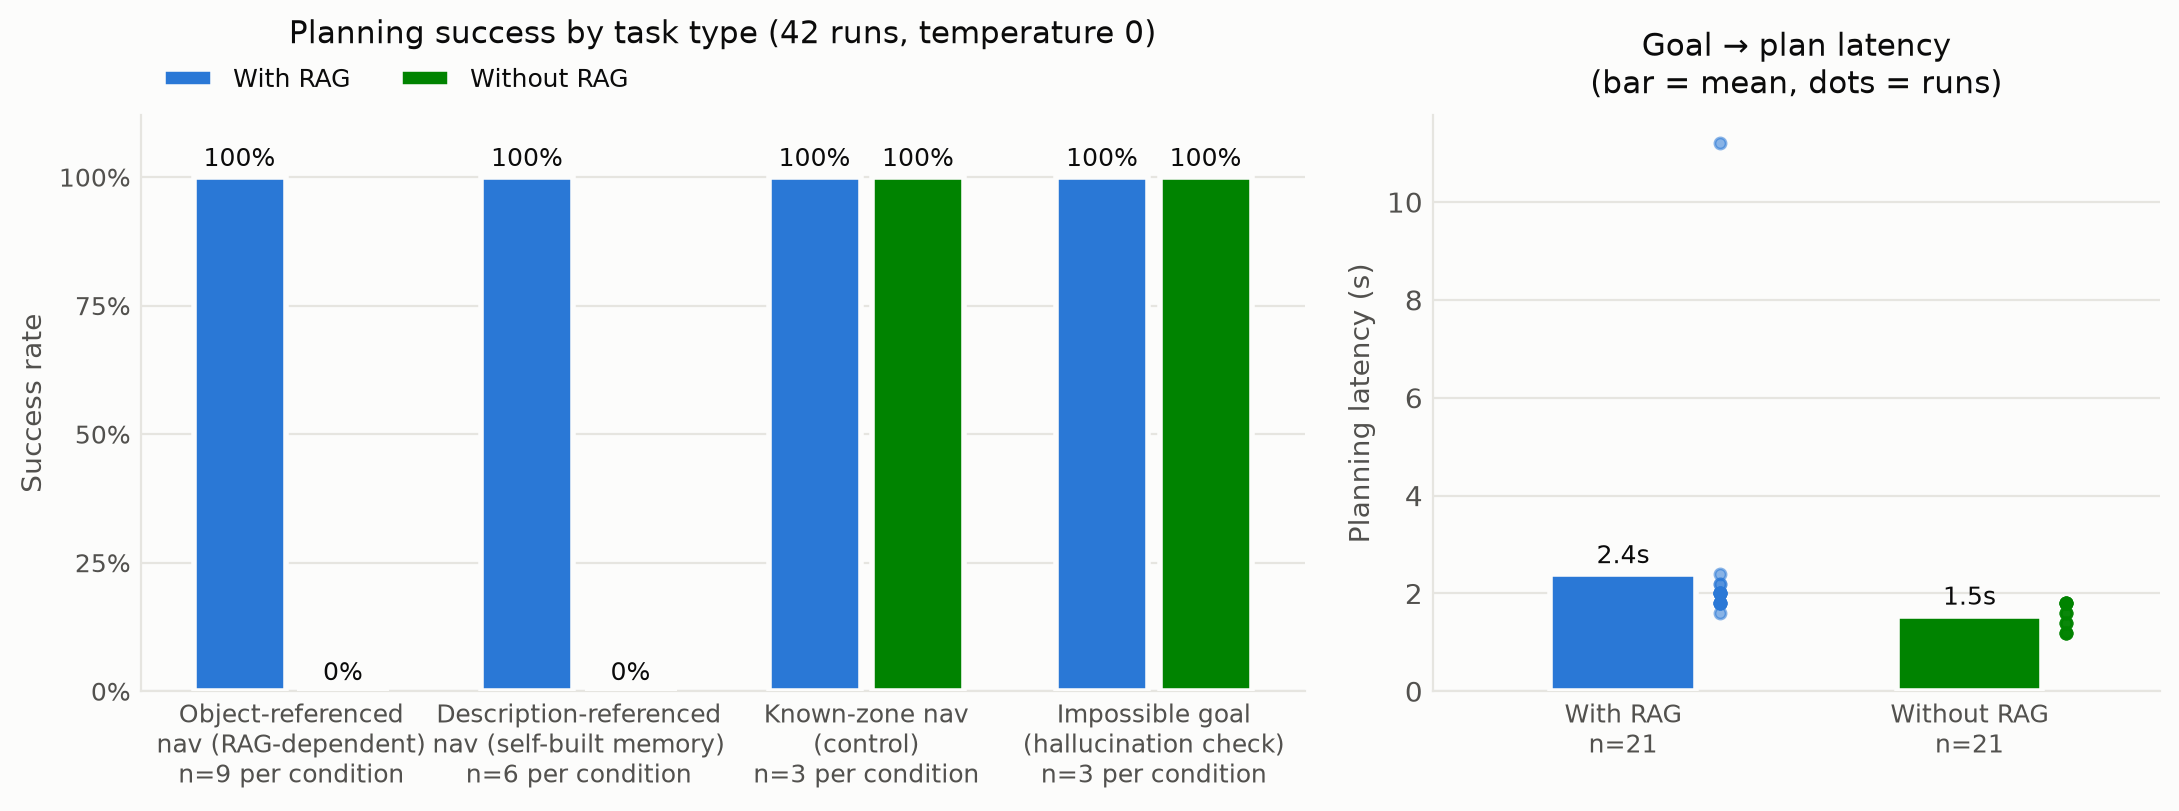
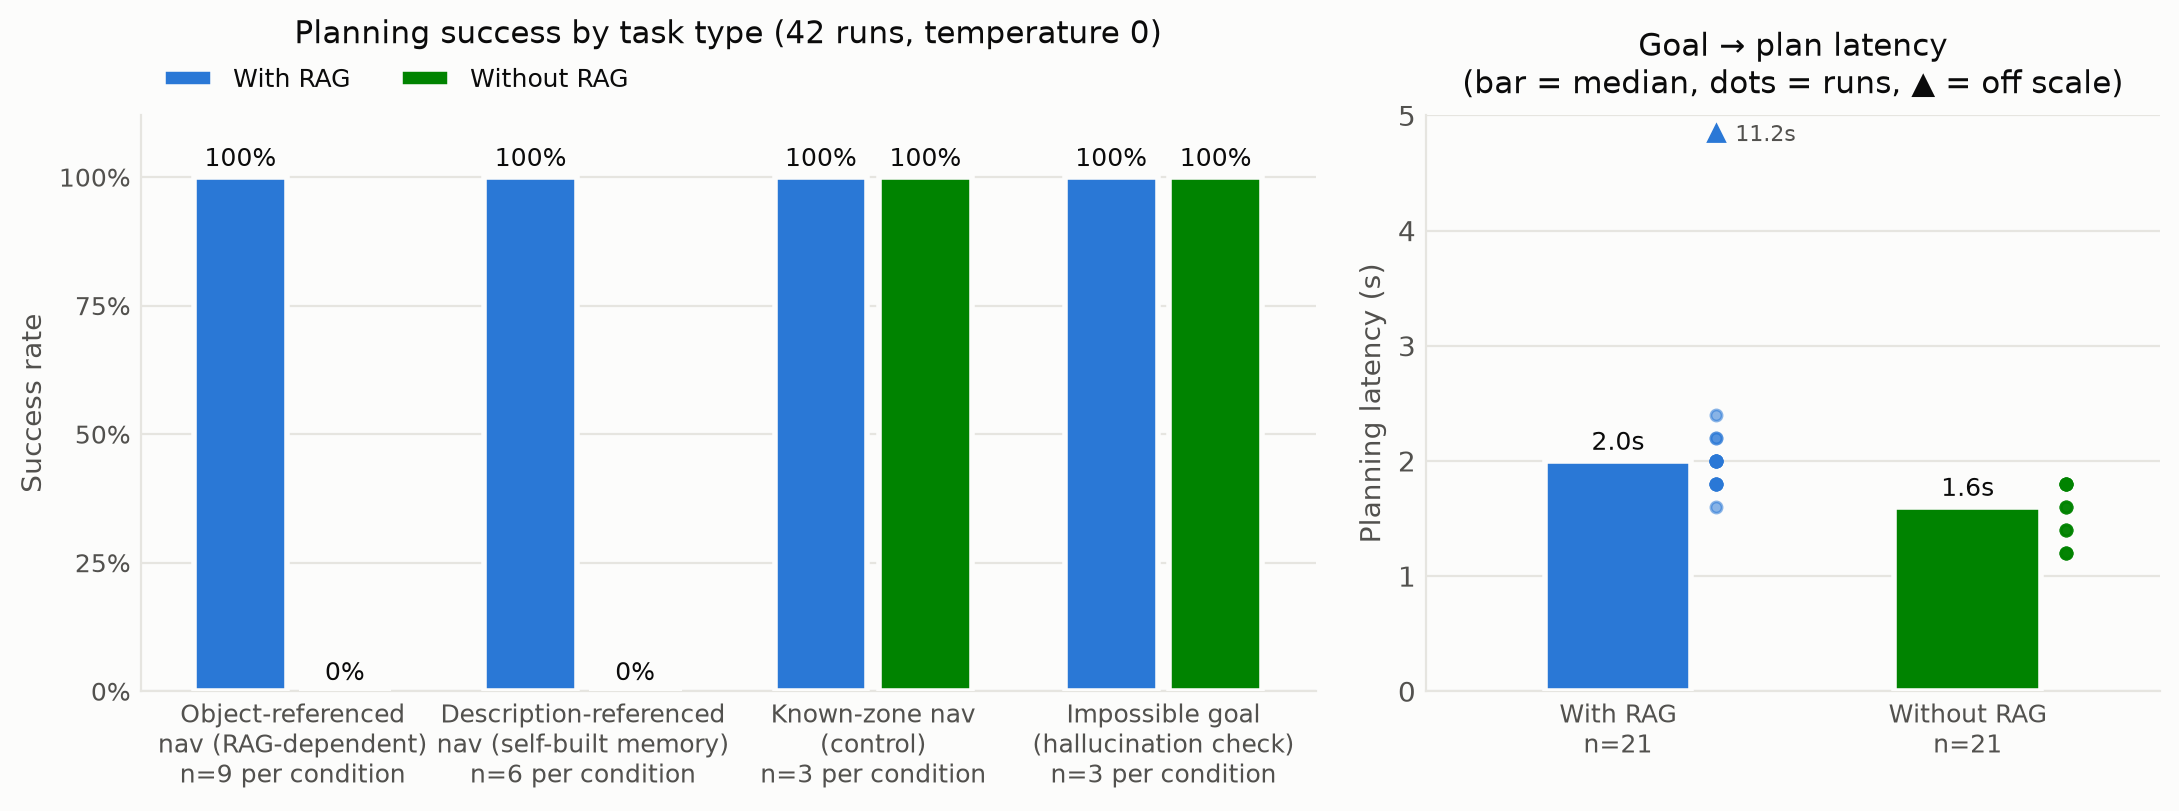
docs: pre-publication review — correct ADR-002, fix three charts, close doc gaps
A full pass over every Markdown file, chart and node docstring before
presenting the repository.

- ADR-002 / CLAUDE.md: checked against the QwenLM GitHub organisation. Its
  repos say no weight release is planned for Qwen-RobotNav or Qwen-RobotManip;
  "Qwen-RobotWorld" does not exist; the "~200 ms on Jetson" figure has no
  source. Corrected in a dated update, not rewritten out of the record.
- Charts: the latency panel plots medians (2.0 / 1.6 s) with the one cold-start
  run drawn off scale, instead of a mean stretched to 11 s; the embeddings
  chart's negative label no longer overlaps the axis labels; hard-suite
  failures are red, not the green that means "Without RAG" everywhere else.
- rag-pipeline described content environment_rules.md does not have, and now
  notes its 30-minute rule is enforced nowhere (a knowledge edit needs a
  re-run, ADR-031, so it is flagged rather than silently changed).
- architecture: plausible-nonexistent-place limitation, ADR-031 in the
  evaluation section, temperature 0 described as repeatable, not exact.
- api_reference: /rosout row. skills_executor_node docstring: save_map and
  its /slam_toolbox/serialize_map client. toolkit: the agent loop is designed
  without LangChain.
- README: the demo launch needs a map saved as `house`; none is shipped yet.

Layer 1 327 passed, ruff clean.

Claude-Session: https://claude.ai/code/session_012yBM5EjGez1coAkp1mevGW

diff --git a/eval/plot_results.py b/eval/plot_results.py
@@ -34,6 +34,13 @@ SURFACE = '#fcfcfb'
 INK = '#0b0b0b'
 INK_2 = '#52514e'
 GRID = '#e6e5e0'
+# Status, not a category: marks a failure outcome. Never a series colour, so a
+# failure bar cannot be mistaken for the "Without RAG" / nomic series.
+FAIL = '#c8553d'
+# Latency axis cap. A run above it (in practice the first goal after launch,
+# a cold start of 11-13 s) is drawn as a marker on the cap and labelled with
+# its real value, instead of stretching the axis until the bars are unreadable.
+LATENCY_CAP_S = 5.0
 
 TYPE_LABELS = {
     'object_nav': 'Object-referenced\nnav (RAG-dependent)',
@@ -128,9 +135,11 @@ def fig_benchmark():
     ax1.legend(frameon=False, fontsize=9, ncol=2, loc='lower left',
                bbox_to_anchor=(0.0, 1.0), labelcolor=INK)
 
-    # Latency: mean bar + individual run dots per condition. Runs that never
-    # produced a plan (Ollama stall -> 60 s timeout) are excluded: they
-    # measure the timeout constant, not planning latency.
+    # Latency: median bar + individual run dots per condition. The median, not
+    # the mean: one cold-start run moves the mean by ~0.4 s, which is as large
+    # as the retrieval cost the panel exists to show. Runs that never produced
+    # a plan (Ollama stall -> 60 s timeout) are excluded: they measure the
+    # timeout constant, not planning latency.
     for i, (_label, color, runs) in enumerate(
             [('With RAG', BLUE, rag), ('Without RAG', GREEN, norag)]):
         lat = [
@@ -139,24 +148,35 @@ def fig_benchmark():
         ]
         if not lat:
             continue
-        mean = sum(lat) / len(lat)
-        ax2.bar([i], [mean], width=0.42, color=color, edgecolor=SURFACE,
+        ordered = sorted(lat)
+        mid = len(ordered) // 2
+        median = (ordered[mid] if len(ordered) % 2
+                  else (ordered[mid - 1] + ordered[mid]) / 2)
+        ax2.bar([i], [median], width=0.42, color=color, edgecolor=SURFACE,
                 linewidth=2, zorder=3)
         # Dots sit just off the bar's right edge (half-width 0.21) so they read
         # as that bar's runs without the fill swallowing them.
-        ax2.plot([i + 0.28] * len(lat), lat, 'o', color=color, markersize=4,
+        inside = [v for v in lat if v <= LATENCY_CAP_S]
+        ax2.plot([i + 0.28] * len(inside), inside, 'o', color=color, markersize=4,
                  alpha=0.55, zorder=4)
-        ax2.annotate(f'{mean:.1f}s', (i, mean), textcoords='offset points',
+        for v in (v for v in lat if v > LATENCY_CAP_S):
+            ax2.plot([i + 0.28], [LATENCY_CAP_S * 0.97], '^', color=color,
+                     markersize=6, zorder=4)
+            ax2.annotate(f'{v:.1f}s', (i + 0.28, LATENCY_CAP_S * 0.97),
+                         textcoords='offset points', xytext=(7, -3), ha='left',
+                         fontsize=8, color=INK_2)
+        ax2.annotate(f'{median:.1f}s', (i, median), textcoords='offset points',
                      xytext=(0, 4), ha='center', fontsize=9, color=INK)
     # Explicit limits: with autoscaling the rightmost dot column lands on the
     # axis edge and reads as clipped.
     ax2.set_xlim(-0.55, 1.55)
+    ax2.set_ylim(0, LATENCY_CAP_S)
     ax2.set_xticks([0, 1])
     ax2.set_xticklabels(
         [f'With RAG\nn={len(rag)}', f'Without RAG\nn={len(norag)}'], fontsize=9, color=INK,
     )
     ax2.set_ylabel('Planning latency (s)', fontsize=10, color=INK_2)
-    ax2.set_title('Goal → plan latency\n(bar = mean, dots = runs)',
+    ax2.set_title('Goal → plan latency\n(bar = median, dots = runs, ▲ = off scale)',
                   fontsize=11, color=INK, pad=8)
     style_axes(ax2)
 
@@ -246,6 +266,11 @@ def fig_embeddings():
     # Zero line above the bars (zorder 5): drawn underneath it shows only in the
     # gaps between bars and reads as a row of stray dashes rather than a datum.
     ax2.axhline(0, color=INK_2, linewidth=0.8, zorder=5)
+    # Room below the lowest bar for its value label, which otherwise lands on
+    # the category labels under the axis.
+    lowest = min(min(v) for v in margins.values())
+    if lowest < 0:
+        ax2.set_ylim(bottom=lowest - 0.035)
     ax2.set_xticks(range(len(langs)))
     ax2.set_xticklabels(
         [f'{label}\nn={len(data["models"][series_defs[0][0]][lang]["runs"])}'
@@ -392,7 +417,7 @@ def fig_hard_decisions():
 
     A success rate alone says the planner missed; the decision labels say how —
     the wrong landmark, hedging across both candidates, right steps in the wrong
-    order. Successes (blue) and failures (green) are coloured distinctly so the
+    order. Successes (blue) and failures (red) are coloured distinctly so the
     chart is a breakdown of outcomes, not just of failures. That "how" is what
     makes the suite useful for guiding the next iteration.
     """
@@ -411,7 +436,7 @@ def fig_hard_decisions():
     )
     labels = [k.replace('_', ' ') for k, _ in ordered]
     values = [v for _, v in ordered]
-    colors = [BLUE if k in _HARD_SUCCESS_DECISIONS else GREEN for k, _ in ordered]
+    colors = [BLUE if k in _HARD_SUCCESS_DECISIONS else FAIL for k, _ in ordered]
 
     fig, ax = plt.subplots(figsize=(8.0, 0.42 * len(labels) + 2.1), facecolor=SURFACE)
     positions = range(len(labels))
@@ -426,7 +451,7 @@ def fig_hard_decisions():
     ax.set_xlabel('Runs (with RAG, 30 total)', fontsize=10, color=INK_2)
     ax.set_xlim(0, max(values) * 1.15)
     ax.set_title('Hard suite — outcome breakdown with RAG\n'
-                 '(green = failure modes, blue = solved)',
+                 '(red = failure modes, blue = solved)',
                  fontsize=11, color=INK, pad=10)
     style_axes(ax)
     ax.xaxis.grid(True, color=GRID, linewidth=0.8)

diff --git a/src/robot_skills/robot_skills/skills_executor_node.py b/src/robot_skills/robot_skills/skills_executor_node.py
@@ -59,10 +59,14 @@ class SkillsExecutorNode(Node):
 
     Services (server):
         /skills/execute (ExecuteSkill): Dispatches to
-            navigate/explore/perceive/scan_360/report.
+            navigate/explore/perceive/scan_360/report, and the save_map
+            maintenance skill.
 
     Services (client):
         /rag/update_map (UpdateMap): Stores scene descriptions in semantic memory.
+        /slam_toolbox/serialize_map (SerializePoseGraph): Saves the live SLAM map
+            for save_map (ADR-026); created on first use, so the node starts
+            without slam_toolbox.
 
     Parameters:
         logs_dir (str): Directory for task history logs.

diff --git a/src/robot_brain/robot_brain/toolkit.py b/src/robot_brain/robot_brain/toolkit.py
@@ -3,8 +3,8 @@
 Note: an earlier version wrapped each skill in a LangChain @tool. That added a
 heavy dependency purely for a name→callable registry the LLM never tool-called
 (the planner emits plan JSON we parse ourselves). Skills are dispatched
-directly here instead. A true LangChain agent loop is listed as future work in
-the README.
+directly here instead. A real agent loop (replanning from execution feedback)
+is future work, designed without a framework: docs/agent-loop-roadmap.md.
 """
 
 from __future__ import annotations

diff --git a/docs/architecture.md b/docs/architecture.md
@@ -130,7 +130,8 @@ Subscribes to `/robot/goal`. For each goal:
    and `task_history`, dropping hits below `rag_score_threshold` (an
    irrelevant hit is worse than none — it enters the prompt as ground truth).
 2. Builds the prompt (`prompts.py`) and requests a JSON plan from Qwen2.5-7B
-   (`qwen_client.py`, `temperature=0` for reproducibility).
+   (`qwen_client.py`, `temperature=0` for repeatability — not exact identity
+   across runs; see the threats to validity in rag-analysis.md).
 3. Publishes the raw plan on `/robot/plan` and executes the steps
    sequentially via `/skills/execute` (`toolkit.py` — plain dispatch, no
    agent framework; see ADR-012 for why LangChain was removed).
@@ -235,7 +236,11 @@ planning level ([ADR-013](decisions/ADR-013-planning-level-benchmark.md)):
 `seed_memory.py` registers landmarks in semantic memory, `run_benchmark.py`
 runs task suites across ablation conditions in the planner's `dry_run` mode
 scoring each plan from `/robot/plan`, and `report.py` aggregates results into
-Markdown tables. Results live in `eval/results/`.
+Markdown tables. Results live in `eval/results/`; the measured findings are in
+[rag-analysis.md](rag-analysis.md). The numbers belong to the code *and* the
+knowledge files they were measured with: an edit to `data/knowledge/` changes
+the planner's prompt and requires a re-run
+([ADR-031](decisions/ADR-031-knowledge-base-is-planner-input.md)).
 
 ## Execution environment (WSL2 + venv)
 
@@ -293,6 +298,12 @@ careful to call unreliable.
   explorer used to place frontier goals exactly there; it now picks the
   frontier cell with the most clearance
   ([ADR-027](decisions/ADR-027-exploration-frontier-clusters.md)).
+- **Plausible but nonexistent places:** asked for "estacion_d" when a, b and c
+  exist, the planner with RAG reuses a real station's coordinates (hard suite
+  0/6 with RAG, 3/6 without). The plan is well-formed, so nothing downstream
+  rejects it; validating plans against memory is the open follow-up
+  ([ADR-031](decisions/ADR-031-knowledge-base-is-planner-input.md),
+  [rag-analysis §2.6](rag-analysis.md)).
 - **High-resolution camera = silently dropped messages.** The stock
   TurtleBot3 model publishes 1920×1080 (~55 MB/s); BEST_EFFORT subscribers in
   a busy process lost every frame at the DDS layer with no visible error. Our

diff --git a/docs/decisions/ADR-002-qwen-robot-suite.md b/docs/decisions/ADR-002-qwen-robot-suite.md
@@ -1,7 +1,8 @@
 # ADR-002: Qwen Robot Suite integration status
 
 **Date:** 2026-07-14
-**Status:** Accepted (revisit when weights are released)
+**Status:** Accepted — facts corrected 2026-09-16 (see the update below); its
+perception half superseded by [ADR-014](ADR-014-classical-scene-descriptor.md)
 
 ## Context
 
@@ -37,3 +38,32 @@ publicly released. Use what is available today:
   ~200 ms per inference on Jetson-class hardware per the published numbers).
 - Until then the perceive → update_map → navigate pipeline remains two
   separate steps instead of one.
+
+## Update 2026-09-16 — what the published repositories actually say
+
+Re-checked against the QwenLM GitHub organisation before publication. Three
+statements above did not hold up, and are corrected here rather than rewritten
+out of the record:
+
+- **No weight release is planned.** `QwenLM/Qwen-RobotNav` and
+  `QwenLM/Qwen-RobotManip` (both created 2026-06-29) state: *"There is currently
+  no plan to release the model weights for Qwen-RobotManip or Qwen-RobotNav."*
+  "Revisit when weights are released" is therefore not a trigger that is
+  expected to fire.
+- **There is no "Qwen-RobotWorld".** No repository of that name exists in the
+  organisation. The closest name, `Qwen-AgentWorld`, is a *language* world model
+  for software agents (MCP, terminal, web, OS), not a robotics model.
+- **The "~200 ms on Jetson-class hardware" figure has no source** in the
+  published Qwen-RobotNav material and is withdrawn.
+
+What the repositories do publish: Qwen-RobotNav is built on Qwen3-VL with a
+small action head that outputs 8 waypoints `(x, y, θ)`, reported at 4B and 8B,
+covering instruction following, object search and tracking. That is a report,
+not something this project can run.
+
+The rationale's premise has also moved on: `perceive_skill.py` no longer uses
+Qwen2.5-VL. The VLM was removed as unreliable on software-rendered frames, and
+perception is a classical colour + LIDAR descriptor
+([ADR-014](ADR-014-classical-scene-descriptor.md)). The decision itself stands:
+nothing here depends on unpublished weights.
+

diff --git a/CLAUDE.md b/CLAUDE.md
@@ -380,19 +380,18 @@ self.declare_parameter('zones_db', str(WS_ROOT / 'data' / 'zones.db'))
 
 ---
 
-## Qwen Robot Suite — integration status
+## Qwen robotics models — integration status
 
-> See `docs/decisions/ADR-002-qwen-robot-suite.md` for the full analysis.
+> See `docs/decisions/ADR-002-qwen-robot-suite.md` (corrected 2026-09-16).
 
-| Model | Public weights | Integrable now | Current alternative |
+| Model | Public weights | Integrable now | What this project uses instead |
 |--------|---------------|------------------|--------------------|
-| Qwen-RobotNav-4B | ❌ Not released | ❌ No | Qwen2.5-VL-7B + Nav2 |
-| Qwen-RobotManip | ❌ Not released | ❌ No | N/A (no manipulation) |
-| Qwen-RobotWorld | ❌ Not released | ❌ No | N/A |
-| Qwen2.5-VL-7B | ✅ Available | ✅ Yes | — |
-| Qwen2.5-7B | ✅ Available | ✅ Yes | — |
+| Qwen-RobotNav (4B / 8B, on Qwen3-VL) | ❌ No release planned (per its repo) | ❌ No | Nav2 + classical scene descriptor (ADR-014) |
+| Qwen-RobotManip | ❌ No release planned (per its repo) | ❌ No | N/A (no manipulation) |
+| Qwen2.5-7B | ✅ Available | ✅ Yes | The planner |
+| Qwen2.5-VL-7B | ✅ Available | Removed | Unreliable on software-rendered frames (ADR-014) |
 
-**When weights are released** (watch https://github.com/QwenLM/Qwen-RobotNav):
-replace `perceive_skill.py` + `nav_skill.py` with Qwen-RobotNav-4B calls
-(camera images + instruction → waypoints, ~200ms per inference on Jetson-class
-hardware per the published deployment numbers).
+There is no "Qwen-RobotWorld" (Qwen-AgentWorld is a language world model for
+software agents). Do not plan work around robotics weights that Qwen says it
+will not release; re-check https://github.com/QwenLM/Qwen-RobotNav only if that
+statement changes.

diff --git a/docs/rag-pipeline.md b/docs/rag-pipeline.md
@@ -29,9 +29,14 @@ state); `data/knowledge/` **is**.
 
 Three committed Markdown files:
 
-- **`environment_rules.md`** — the Gazebo world's layout, the robot's spawn
-  pose, navigation constraints (doorway widths, the software-rendered physics
-  caveat), and the rule that the robot must never invent coordinates.
+- **`environment_rules.md`** — the Gazebo world's layout and the robot's spawn
+  pose, where coordinates come from (exploration, named zones, remembered
+  places), the rule that a place with no known coordinates is explored for,
+  never guessed, and navigation and safety rules. One of those safety rules, a
+  30-minute operating limit, is not enforced anywhere in the code; changing
+  the file means re-running the planning suites
+  ([ADR-031](decisions/ADR-031-knowledge-base-is-planner-input.md)), so it is
+  recorded here rather than silently edited.
 - **`perception_capabilities.md`** — what `perceive` and `scan_360` can and
   cannot report. This one matters: it is what stops the planner assuming an
   object detector exists (see §6).

diff --git a/docs/rag-analysis.md b/docs/rag-analysis.md
@@ -107,9 +107,9 @@ exactness) is what catches it.
 ### 2.3 What does RAG cost? Planning latency
 
 Median goal→plan latency is **2.0 s with RAG vs 1.6 s without** (21 runs per
-condition). The right panel of the benchmark figure plots means, 2.4 s vs
-1.5 s. The RAG mean carries one 11.2 s outlier, the very first goal after
-launch. It is a cold start: both re-runs showed it, 11.2 s and 12.6 s, and
+condition), the bars in the right panel of the benchmark figure. The means
+are 2.4 s vs 1.5 s. The RAG mean carries one 11.2 s outlier (the ▲ above the
+axis), the very first goal after launch. It is a cold start: both re-runs showed it, 11.2 s and 12.6 s, and
 every later goal took about 2 s. Retrieval — three collection queries through
 `/rag/query`, each a bge-m3 embedding call plus a vector search — costs
 **~0.4 s**, small next to the 7B model's inference either way. The phrasing

diff --git a/README.md b/README.md
@@ -201,8 +201,10 @@ ros2 launch robot_bringup full_system.launch.py use_nav2:=false
 # ...then start from that map instead of an empty one — ADR-026
 ros2 launch robot_bringup full_system.launch.py saved_map:=house
 
-# The demo setup: Gazebo window + RViz + dashboard, starting from map `house`
-# (the Gazebo window costs some real-time factor on WSL2: measured ~0.68 -> ~0.59)
+# The demo setup: Gazebo window + RViz + dashboard, starting from map `house`.
+# The repository does not ship that map yet: save yours as `house` first (above),
+# or the launch stops with "No saved map". The Gazebo window costs some
+# real-time factor on WSL2 (measured ~0.68 -> ~0.59)
 ros2 launch robot_bringup demo.launch.py
 
 # Send a goal

diff --git a/docs/api_reference.md b/docs/api_reference.md
@@ -173,6 +173,7 @@ so the LLM never emits it — reach it only with a direct `ros2 service call`.
 | /cmd_vel_nav_out | geometry_msgs/TwistStamped | Nav2 collision_monitor | cmd_vel_mux_node (priority 1) |
 | /robot/cmd_vel_source | std_msgs/String (transient local) | cmd_vel_mux_node: `teleop` \| `nav2` \| `idle` | dashboard_node (drive panel) |
 | /clock | rosgraph_msgs/Clock | Gazebo bridge | every node (sim time); dashboard_node also estimates the real-time factor |
+| /rosout | rcl_interfaces/Log | every node (ROS 2 logging) | dashboard_node (log viewer) |
 
 † Nav2's `docking_server` also publishes `/cmd_vel` directly (nav2_bringup does
 not remap it), but only during a docking action, which this project never
